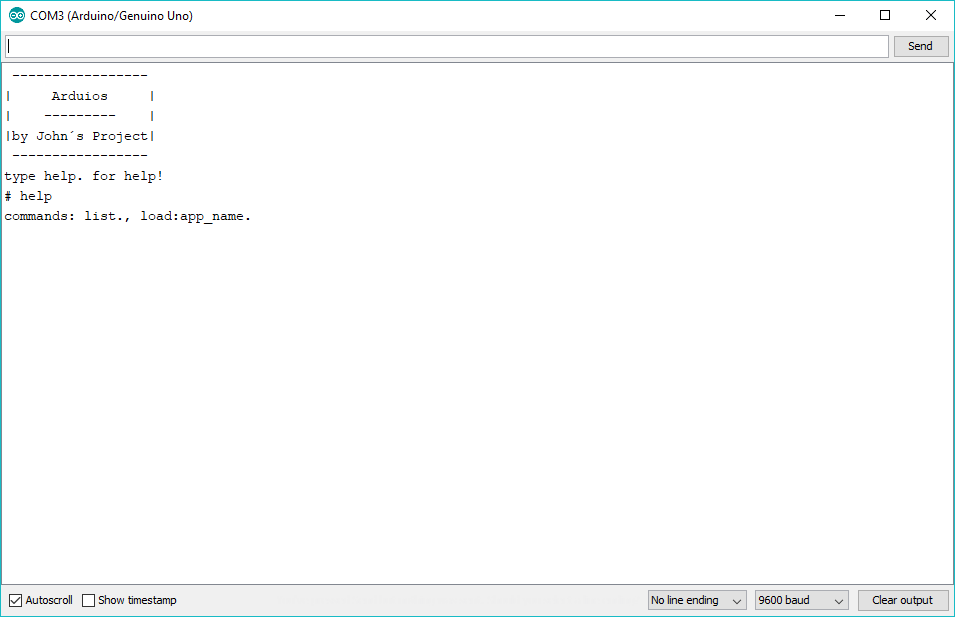
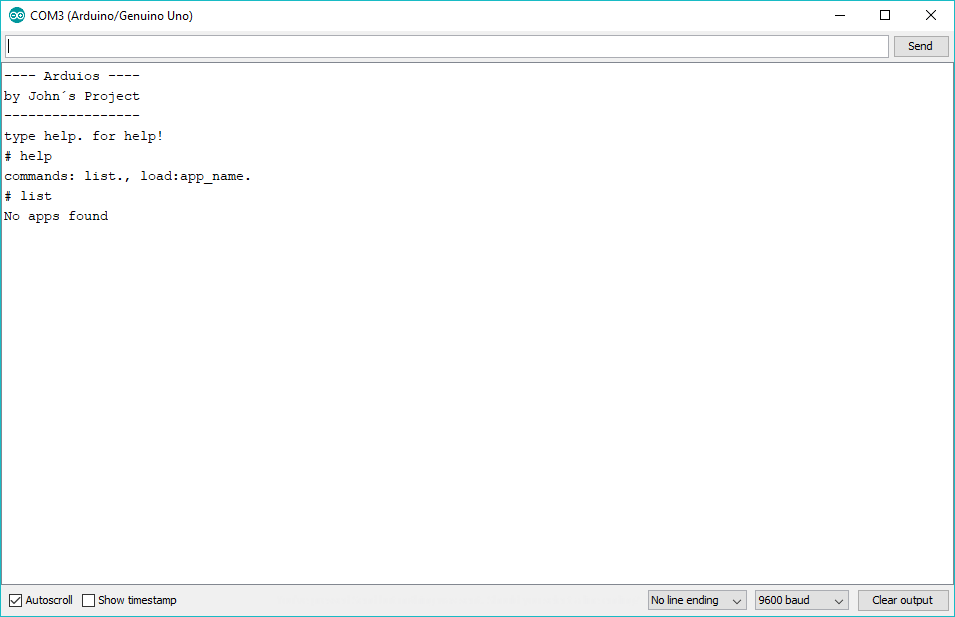
Fixed apps count measuring bug

Changed region(s): [[0.0, 0.2156, 0.2733, 0.3695], [0.0, 0.0924, 0.1518, 0.1848], [0.1518, 0.3387, 0.2733, 0.3695]]

diff --git a/Kernel.cpp b/Kernel.cpp
@@ -3,7 +3,7 @@
 Kernel kernel;
 
 void Kernel::setup(App *apps[]) {
-  registry.appsCount = sizeof(apps) / sizeof(App);
+  registry.appsCount = sizeof(apps) / sizeof(App)+1;
   registry.currentApp = 0;
   registry.apps = apps;
   registry.apps[registry.currentApp]->setup();
@@ -19,7 +19,7 @@ void Kernel::loadApp(uint8_t app_index) {
 }
 
 void Kernel::loadApp(String app_name) {
-  for (uint8_t i = 0; i <= registry.appsCount; i++) {
+  for (uint8_t i = 0; i < registry.appsCount; i++) {
     if (app_name == registry.apps[i]->getName()) {
       registry.currentApp = i;
       registry.apps[registry.currentApp]->setup();

diff --git a/Shell.cpp b/Shell.cpp
@@ -25,7 +25,7 @@ void Shell::loop() {
       }
       if (content == F("list")) {
         if (kernel.registry.appsCount > 1) {
-          for (uint8_t i = 1; i <= kernel.registry.appsCount; i++) {
+          for (uint8_t i = 1; i < kernel.registry.appsCount; i++) {
             Serial.println(kernel.registry.apps[i]->getName());
           }
         } else {
